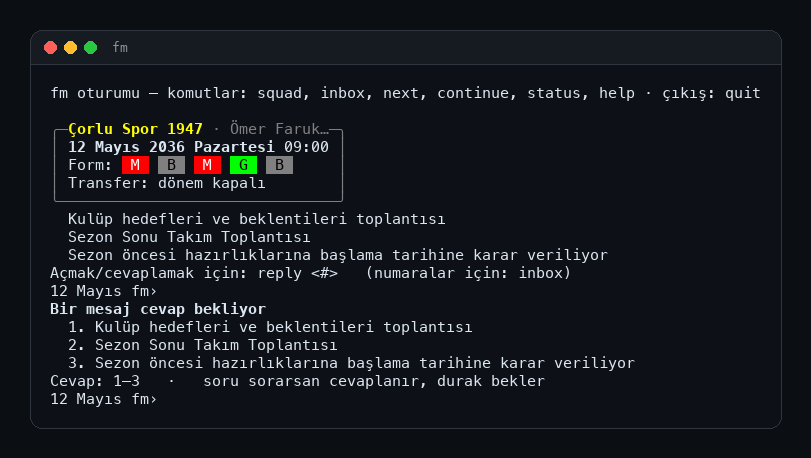
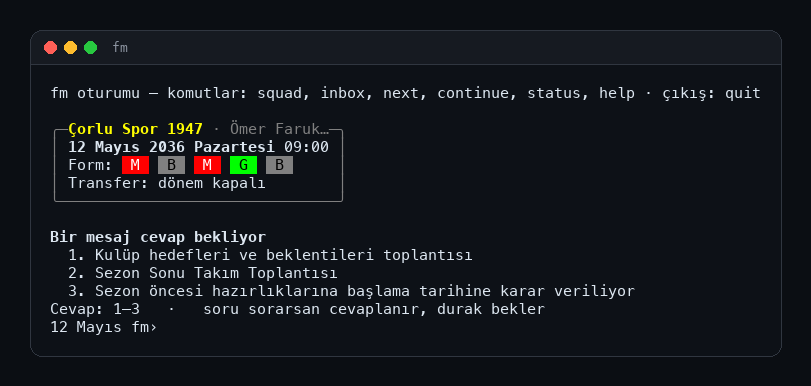
fix(session): the opening tells a stop once, numbered
The opening status ran before the session showed stops, so waiting messages came as a plain list and
again, numbered, after the first next.

Changed region(s): [[0.0617, 0.1865, 0.9556, 0.9016], [0.0308, 0.0622, 0.9556, 0.1554], [0.0308, 0.9016, 0.0617, 0.9326]]

diff --git a/cli/fm/Core/Session.cs b/cli/fm/Core/Session.cs
@@ -10,17 +10,24 @@ internal static class Session
 	{
 		Console.WriteLine(L("fm session — commands: squad, inbox, next, continue, status, help · to leave: quit"));
 
+		// Where `next` stops is shown here as a thing to answer, with numbered answers: the opening status too,
+		// so a stop is told once, numbered, and not first as a plain list.
+		Program.SessionShowsStops = true;
+		Program.HeldStop? shownStop = null;
 		// Opening on where things stand saves typing the first command of every session.
 		if (Ui.Rich)
 		{
 			Console.WriteLine();
+			Program.ForgetStop();
 			await execute(["status"]);
+			if (Program.StopNow is { } opening)
+			{
+				Program.ShowStop(opening);
+				shownStop = opening;
+			}
 		}
 		await Program.NewsBaseline();
 		await Program.NoteSave(loaded: false);
-		// Where `next` stops is shown here as a thing to answer, with numbered answers.
-		Program.SessionShowsStops = true;
-		Program.HeldStop? shownStop = null;
 		// The commands a line ran, a sentence's included: told against the stop's answers.
 		var ran = new List<string[]>();
 		async Task<int> Run(string[] w)
